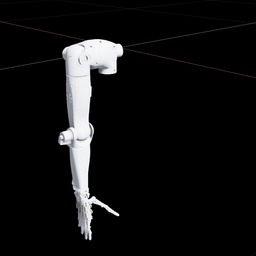
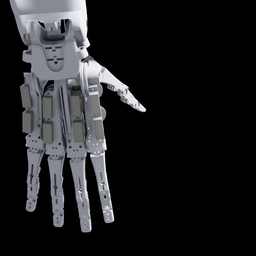
Working fingers

diff --git a/isaac-sim/hope_demo.py b/isaac-sim/hope_demo.py
@@ -88,8 +88,54 @@ def unpackAngleDataToSim(angleBytes):
     dof_angles[4] = np.deg2rad(unpacked[18]-180) # Revolute 5
     dof_angles[5] = np.deg2rad(unpacked[16]-90) # Revolute 6
     dof_angles[6] = np.deg2rad(unpacked[17]-90) # Revolute 7
-    #print('Wrist yaw:', np.rad2deg(dof_angles[6])) # Revolute 7
     
+    # dof_angles[7] is the fixed wrist joint, and shouldn't be animated
+
+    # dof_angles[8] is base of thumb
+
+    
+    # TBD - The math coming out of the demo controller for these joints is wrong
+    # They are disabled for now.
+    # 9,10,11,12 are the base of the fingers
+    #dof_angles[9] = np.deg2rad(unpacked[1]-90) # Revolute 14
+    #dof_angles[10] = np.deg2rad(unpacked[4]-90) # Revolute 18
+    #dof_angles[11] = np.deg2rad(90-unpacked[7]) # Revolute 22
+    #dof_angles[12] = np.deg2rad(90-unpacked[10]) # Revolute 26
+    
+    #dof_angles[13] is thumb roll
+
+    #dof_angles[14-17] are first knuckle joints
+    dof_angles[14] = np.deg2rad(180-unpacked[0])    # Revolute 15
+    dof_angles[15] = np.deg2rad(180-unpacked[3])    # Revolute 19
+    dof_angles[16] = np.deg2rad(180-unpacked[6])    # Revolute 23
+    dof_angles[17] = np.deg2rad(180-unpacked[9])     # Revolute 27
+
+    #dof_angles[19-22] are second knuckle joints
+    dof_angles[19] = np.deg2rad(180-unpacked[2])    # Revolute 16
+    dof_angles[20] = np.deg2rad(180-unpacked[5])    # Revolute 20
+    dof_angles[21] = np.deg2rad(180-unpacked[8])    # Revolute 24
+    dof_angles[22] = np.deg2rad(unpacked[11]-180)     # Revolute 28 - Angular inversion in the model for some reason?
+
+
+    #dof_angles[23] is thumb first joint
+
+    #dof_angles[24-27] are finger tips - driven from same angles as second knuckles
+    dof_angles[24] = np.deg2rad(180-unpacked[2])    # Revolute 17
+    dof_angles[25] = np.deg2rad(180-unpacked[5])    # Revolute 21
+    dof_angles[26] = np.deg2rad(180-unpacked[8])    # Revolute 25
+    dof_angles[27] = np.deg2rad(unpacked[11]-180)     # Revolute 29 - Angular inversion in the model for some reason?
+
+
+    #dof_angles[28] is thumb tip (also rotates backwards)
+
+
+    #print('Thumb tip', np.rad2deg(dof_angles[11]))
+    #print("{0} {1} {2} {3}".format(
+    #    np.rad2deg(dof_angles[24]), 
+    #    np.rad2deg(dof_angles[25]), 
+    #    np.rad2deg(dof_angles[26]),
+    #    np.rad2deg(dof_angles[27])))
+
     #print(unpacked)
 
 
@@ -136,6 +182,9 @@ print("Number of bodies: ", num_bodies)
 # Initial state
 dof_angles = np.zeros(num_dofs).astype(np.float32)
 
+ticker = -2*np.pi
+angle = 13
+
 while True:
     
     # Socket comms
@@ -145,6 +194,17 @@ while True:
             accept_wrapper(key.fileobj)
         else:
             service_connection(key, mask)
+
+    # Useful for testing DOF ranges
+    #ticker += 0.15
+    #if ticker > 2*np.pi:
+    #    ticker = -2*np.pi
+    #    angle += 1
+    #    if angle > 28:
+    #        angle = 13
+    #    print('Angle', angle)
+    #dof_angles[angle] = ticker
+    
 
     # Update pose
     dc.set_articulation_dof_position_targets(articulation, dof_angles)
